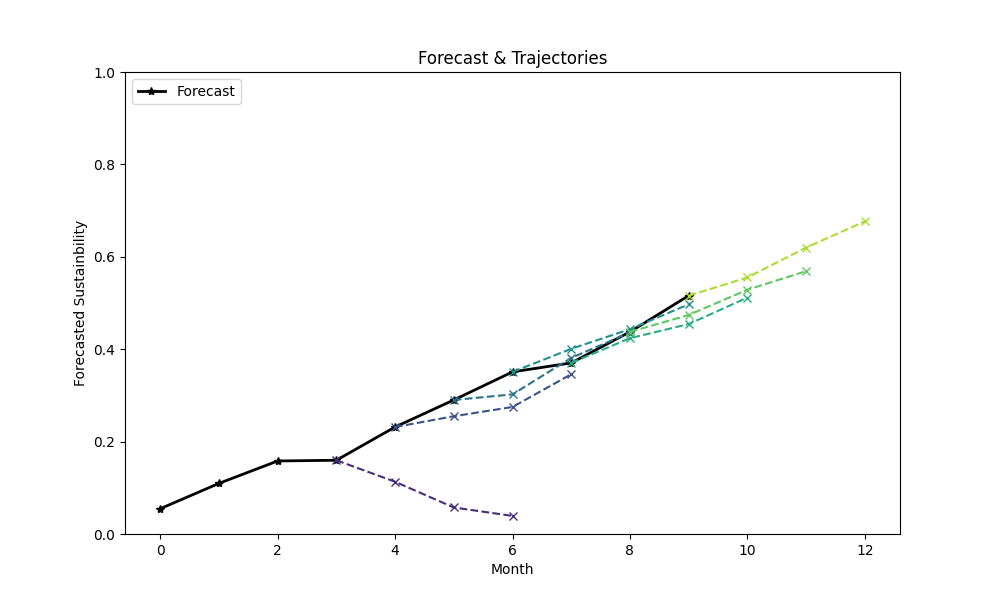
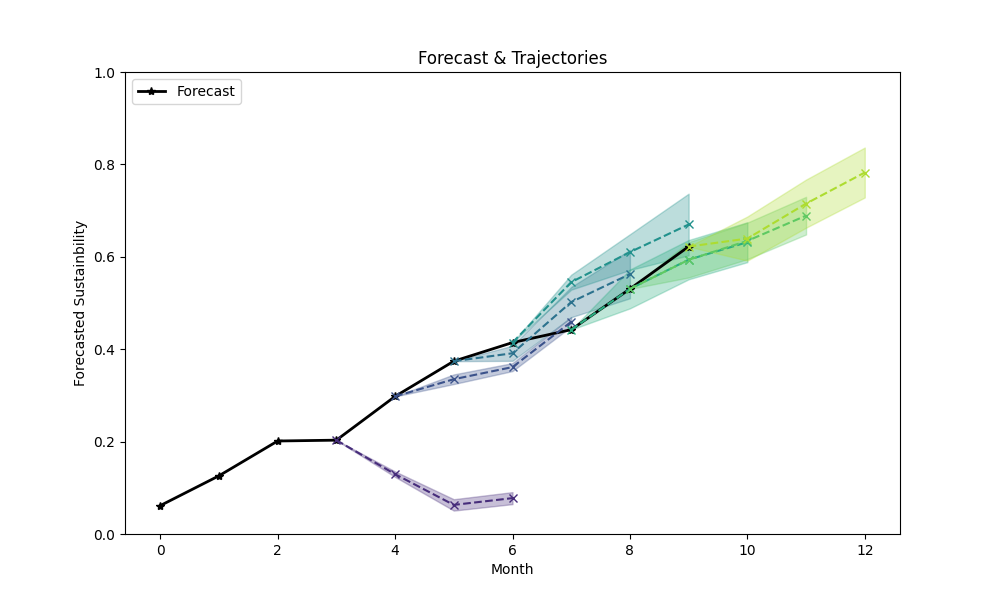
autoregressive fully online with ability to plot confidence intervals (error bounds)

Changed region(s): [[0.155, 0.24, 0.868, 0.87]]

diff --git a/src/algorithms/trajectory.py b/src/algorithms/trajectory.py
@@ -83,15 +83,17 @@ def export_traj(trajectories: dict | list | np.ndarray, filename: Path=None) -> 
     return export_str
 
 
-def plot_traj(forecast: np.ndarray | list, trajectories: np.ndarray, m: int=-1, ci=None, **label_kwargs) -> None:
+def plot_traj(forecast: np.ndarray | list, trajectories: np.ndarray, m: int=-1, ci: np.ndarray=None, **label_kwargs) -> None:
     """Plots the trajectory given a forecast.
 
     Args:
         forecast (np.array | list): actual forecast
         trajectories (np.array): trajectories for all months
         m (int, optional): month number to plot; if not specified, plot all
-            months' trajectories.
-        ci (): confidence interval to plot as well
+            months' trajectories. Defaults to -1.
+        ci (np.ndarray, optional): confidence interval to plot; requires a 
+            the same number of rows as trajectory, each with two elements 
+            [lower, upper]. Defaults to None.
         **label_kwargs: specify the following:
             - "title" for the plot title
             - "path" for the save path
@@ -115,18 +117,23 @@ def plot_traj(forecast: np.ndarray | list, trajectories: np.ndarray, m: int=-1, 
         marker="*"
     )
     
+    # months to plot
+    months = range(m, m + 1) if m >= 0 else range(len(trajectories))
+    
     # plot the trajectories
-    if m < 0:
-        for i, row in enumerate(trajectories):
-            plt.plot(
-                range(l + i, l + i + k), row, color=colors[i],
-                linestyle="dashed", marker="x"
-            )
-    else:
+    for i in months:
+        # plot traj
         plt.plot(
-            range(l + m, l + m + k), trajectories[m, :], color=colors[m],
+            range(l + i, l + i + k), trajectories[i], color=colors[i],
             linestyle="dashed", marker="x"
         )
+        
+        # plot ci if possible
+        if ci is not None:
+            plt.fill_between(
+                x=range(l + i, l + i + k), y1=ci[i, :, 0], y2=ci[i, :, 1],
+                color=colors[i], alpha=0.3
+            )
         
     # plot details
     plt.xlabel("Month")
@@ -267,10 +274,10 @@ def traj_ar(forecast: np.ndarray, lag: int=3, k: int=3, arch: str="ARIMA", ci: i
         trajectories[i - lag][0] = forecast[i]        # root the first prediction to cur value
         trajectories[i - lag].extend(cur_traj)
         ci[i - lag][0] = [forecast[i], forecast[i]]   # no variance in the current forecast
-        ci[i - lag].extend(traj_ci)
+        ci[i - lag].extend([list(bounds) for bounds in traj_ci])
         
     # export as ndarray
-    return np.array(trajectories), np.array(traj_ci)
+    return np.array(trajectories), np.array(ci)
 
 
 # Unit Tests
@@ -293,7 +300,6 @@ class TrajTester(unittest.TestCase):
     def diff_test(self):
         for i, data in enumerate(self.data):
             res = traj_simple(forecast=data)
-            print(res)
             plot_traj(
                 data, res,
                 path=Path().cwd() / "visuals" / "trajectories" / (self.labels[i] + "-diff")
@@ -302,7 +308,6 @@ class TrajTester(unittest.TestCase):
     def exp_test(self):
         for i, data in enumerate(self.data):
             res = traj_simple(forecast=data, strat="exp")
-            print(res)
             plot_traj(
                 data, res,
                 path=Path().cwd() / "visuals" / "trajectories" / (self.labels[i] + "-exp")
@@ -311,8 +316,6 @@ class TrajTester(unittest.TestCase):
     def ar_test(self):
         for i, data in enumerate(self.data):
             res, ci = traj_ar(forecast=data)
-            print(res)
-            print(ci)
             plot_traj(
                 data, res, ci=ci,
                 path=Path().cwd() / "visuals" / "trajectories" / (self.labels[i] + "-arima")
@@ -323,8 +326,7 @@ class TrajTester(unittest.TestCase):
 if __name__ == "__main__":
     tester = TrajTester()
     tester.setUp()
-    tester.ar_test()
-    exit()
     tester.diff_test()
     tester.exp_test()
+    tester.ar_test()
     
